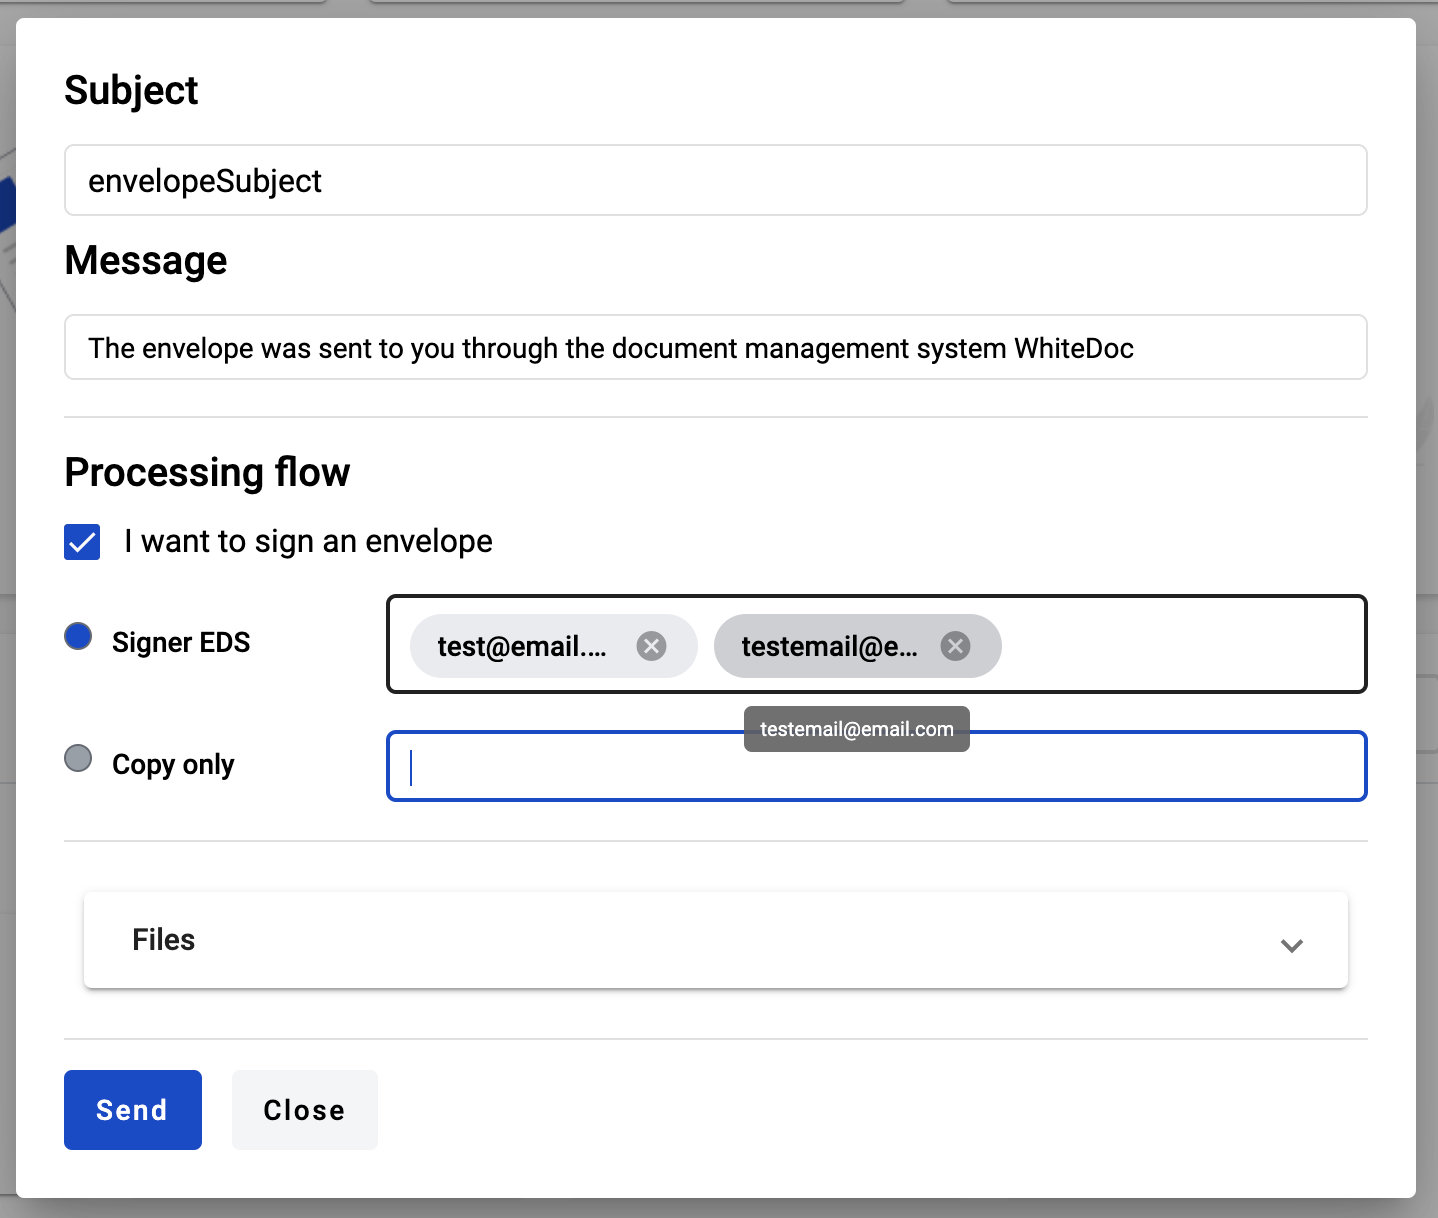
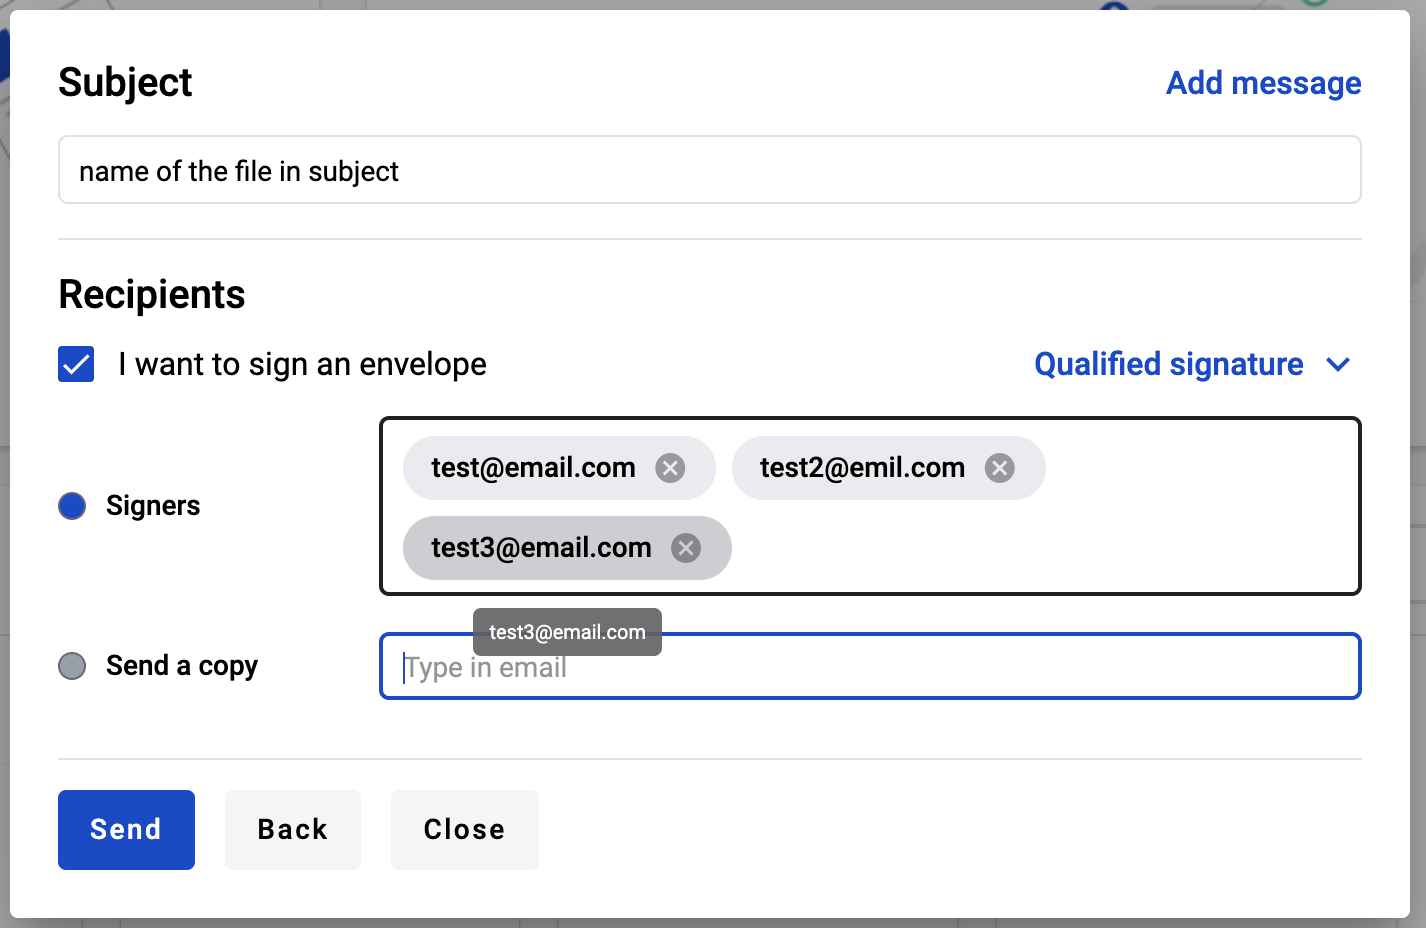
Updated documentation related to quick-send modal window updates

diff --git a/docs/source/pages/howToWorkWithPlatform/mainApplication/dashboard/dashboardOverview/dashboardOverview.rst b/docs/source/pages/howToWorkWithPlatform/mainApplication/dashboard/dashboardOverview/dashboardOverview.rst
@@ -22,39 +22,39 @@ To do this follow instructions:
    :width: 400
    :align: center
 
-2. As soon as you click on "Upload document" modal window for drag and drop files opens and over it opens file manager of you computer. Where you can select files to upload (you're able to upload any quantity of files, but limit of the all of them shouldn't be more than 25MB and each file shouldn't be more than 5MB)
+2. As soon as you click on "Upload document" modal window for drag and drop files opens and over it opens file manager of you computer. Where you can select files to upload (you're able to upload any quantity of files, but limit of the all of them shouldn't be more than 25MB and each file shouldn't be more than 5MB or another limits if instance you're using has one)
 
 .. image:: pic_dashboardOverview/dragAndDropModal.png
    :width: 400
    :align: center
 
-3. Whe you select files and confirm selection on your file manages you can observe all files in the list on screenshot above
+3. When you select files and confirm selection on your file manages you can observe all files in the list on screenshot above
 
 4. To continue quick send click "Next" button. You will be redirected to the envelope properties page, where you have to clarify
-envelope details such as: subject, message, recipients (it could be EDS signers or copy only roles)
+envelope details such as: subject, message (optional), recipients (it could be e-ink, EDS (if instance you're working on supports this type of signature) signers or copy roles)
 
 .. image:: pic_dashboardOverview/envCreationModal.png
    :width: 400
    :align: center
 
-5. If you also want to sing document(s) you can click on checkbox "I want to sign an envelope" and after envelope creation you will be able to sign envelope
+5. You can specify signature type Qualified or e-ink signature. If instance you're working on doesn't support Qualified signature you will not be able to signature type selector. If you also want to sing document(s) you can click on checkbox "I want to sign an envelope" and after envelope creation you will be able to sign envelope
 
 .. image:: pic_dashboardOverview/envCreationModal2.png
    :width: 400
    :align: center
 
-6. To clarify recipients you have to click on input against to respective role type (EDS signer or copy only) and write recipients emails divide them by enter or space button on keyboard
+6. To clarify recipients you have to click on input against to respective role type (Signers or Send a copy) and write recipients emails divide them by enter or space button on keyboard
 
 .. image:: pic_dashboardOverview/envCreationModal3.png
    :width: 400
    :align: center
 
-7. After entering email you are able to observe full content of the email on mouse hower
+7. After entering email you are able to observe full content of the email on mouse hover
 
 .. image:: pic_dashboardOverview/envCreationModal4.png
    :width: 400
    :align: center
 
 8. When you finish all required actions with envelope properties you may click on "Send" button and envelope will be created.
-If you select checkbox "I want to sign an envelope" EDS signature modal window opens automatically when envelope will be created and
+If you select checkbox "I want to sign an envelope" and Qualified signature type, EDS signature modal window opens automatically when envelope will be created and
 you have to sign all documents. If you don't select checkbox you will be just redirected to envelope.
